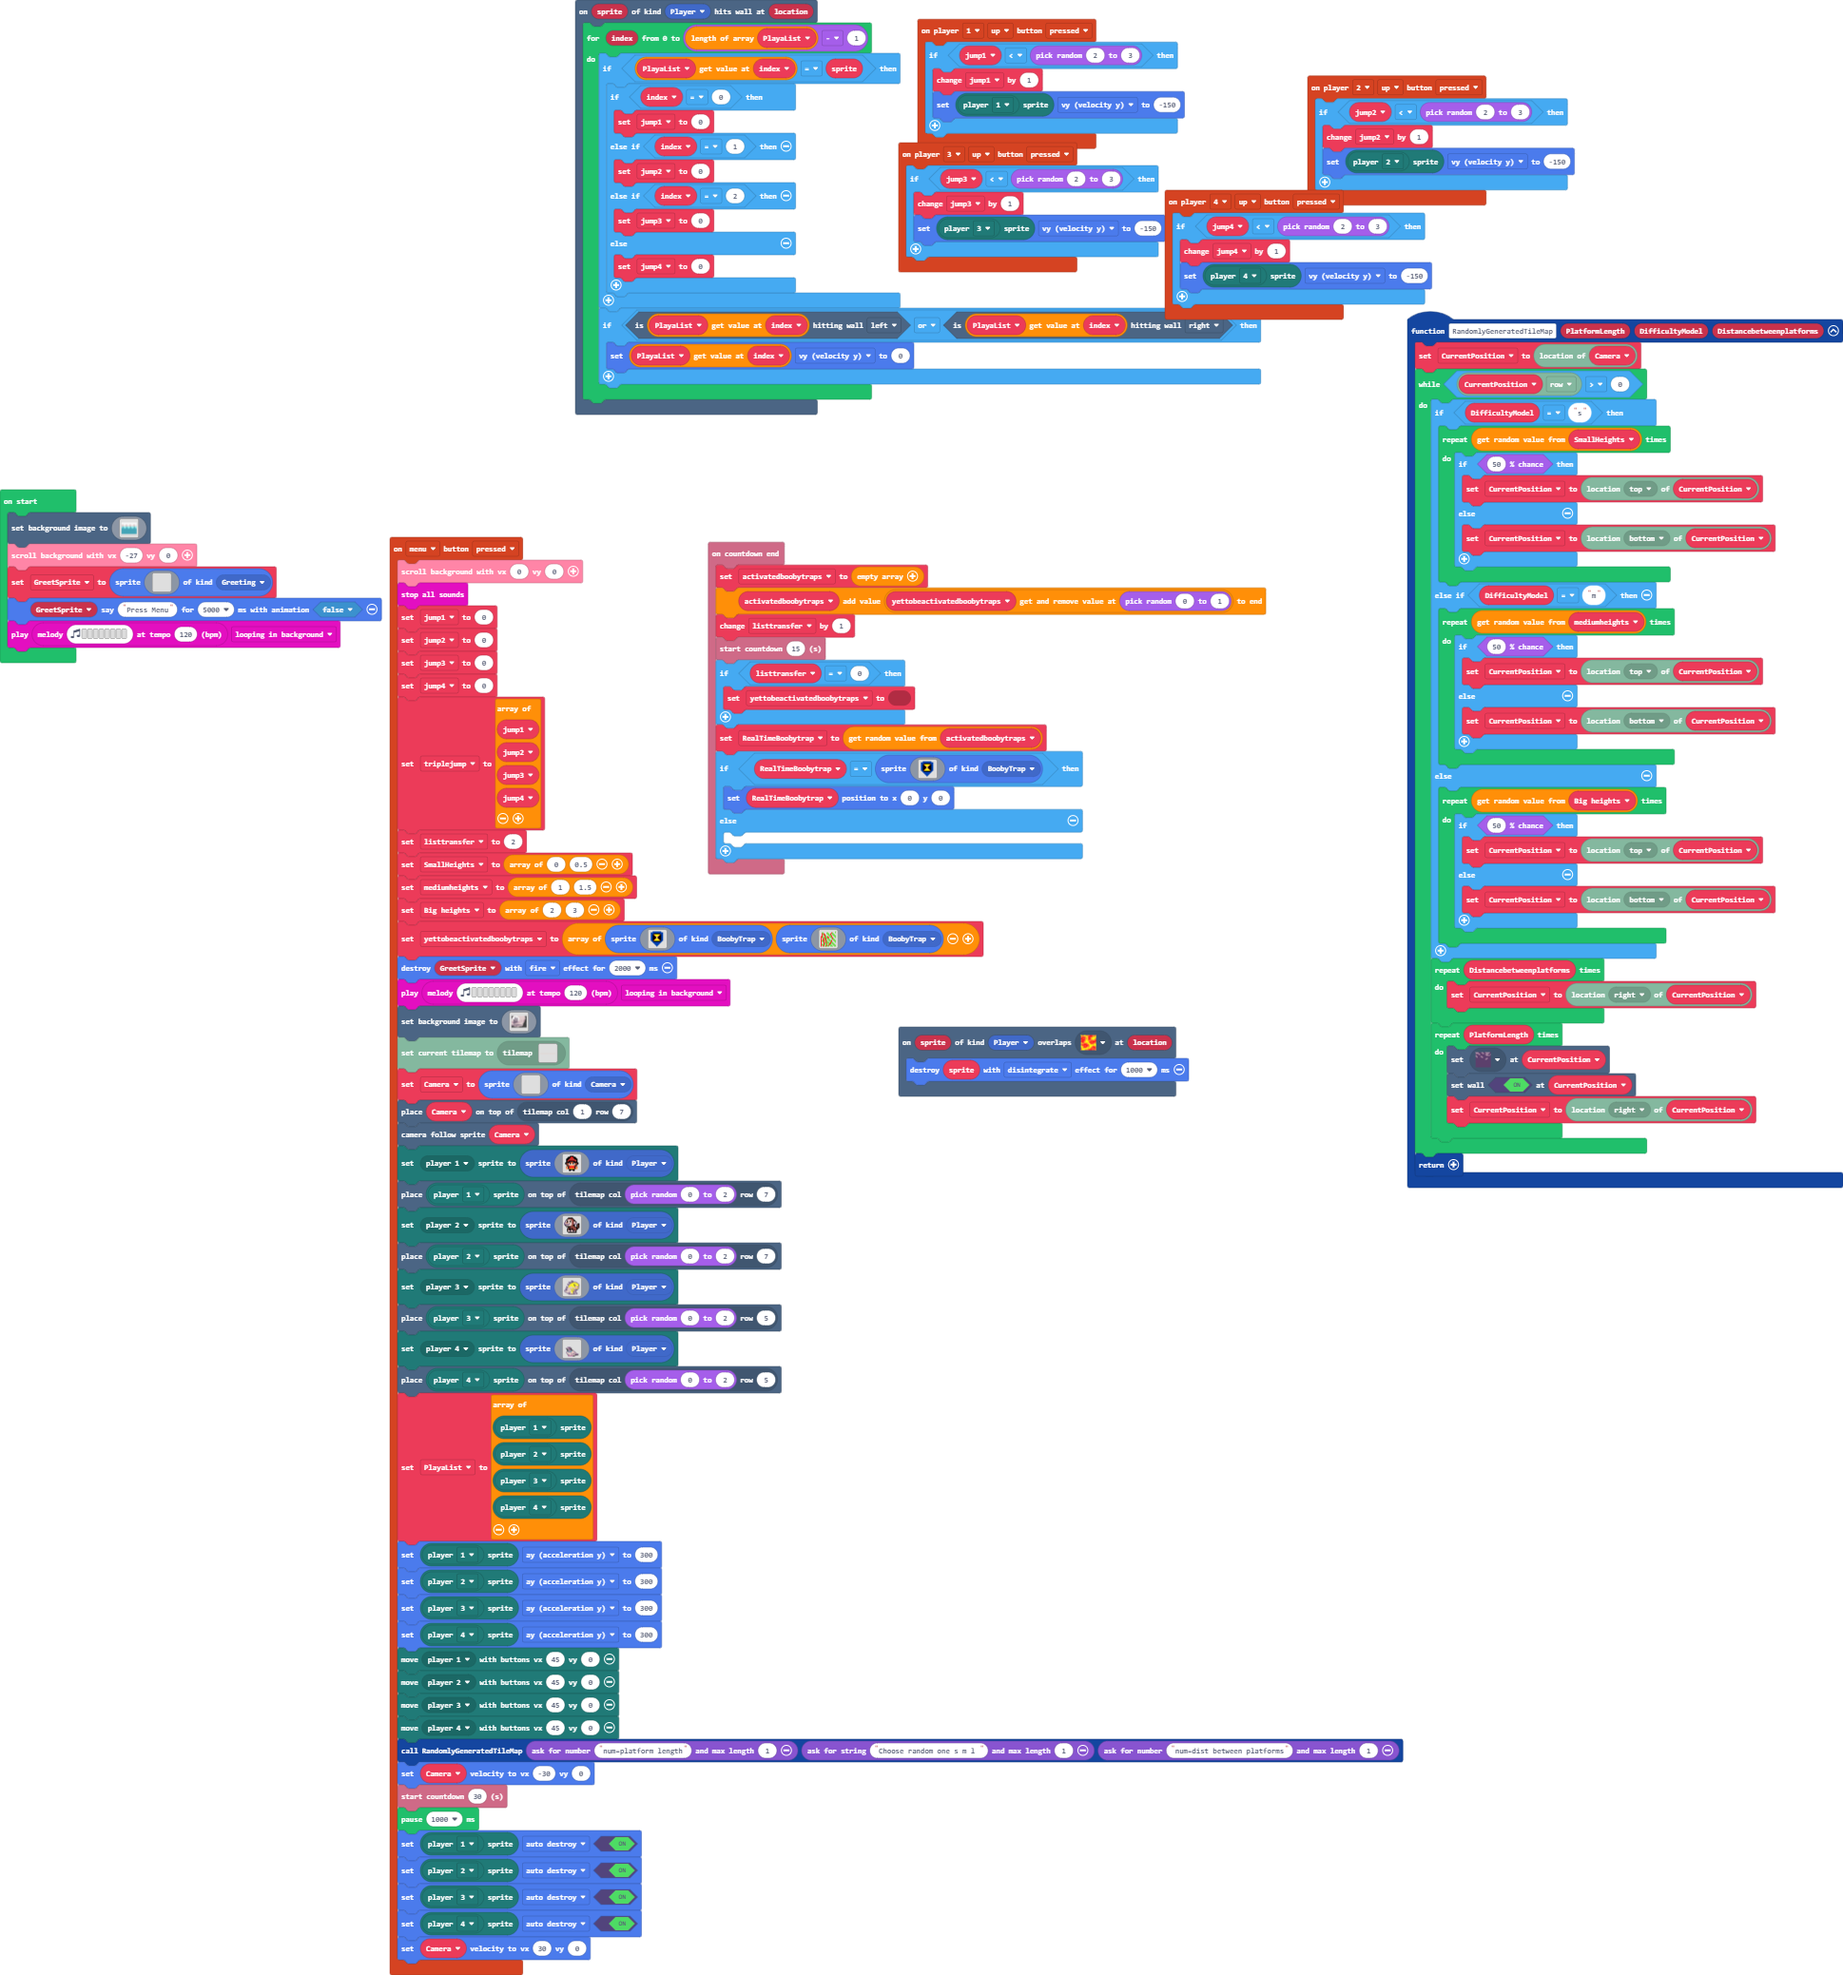
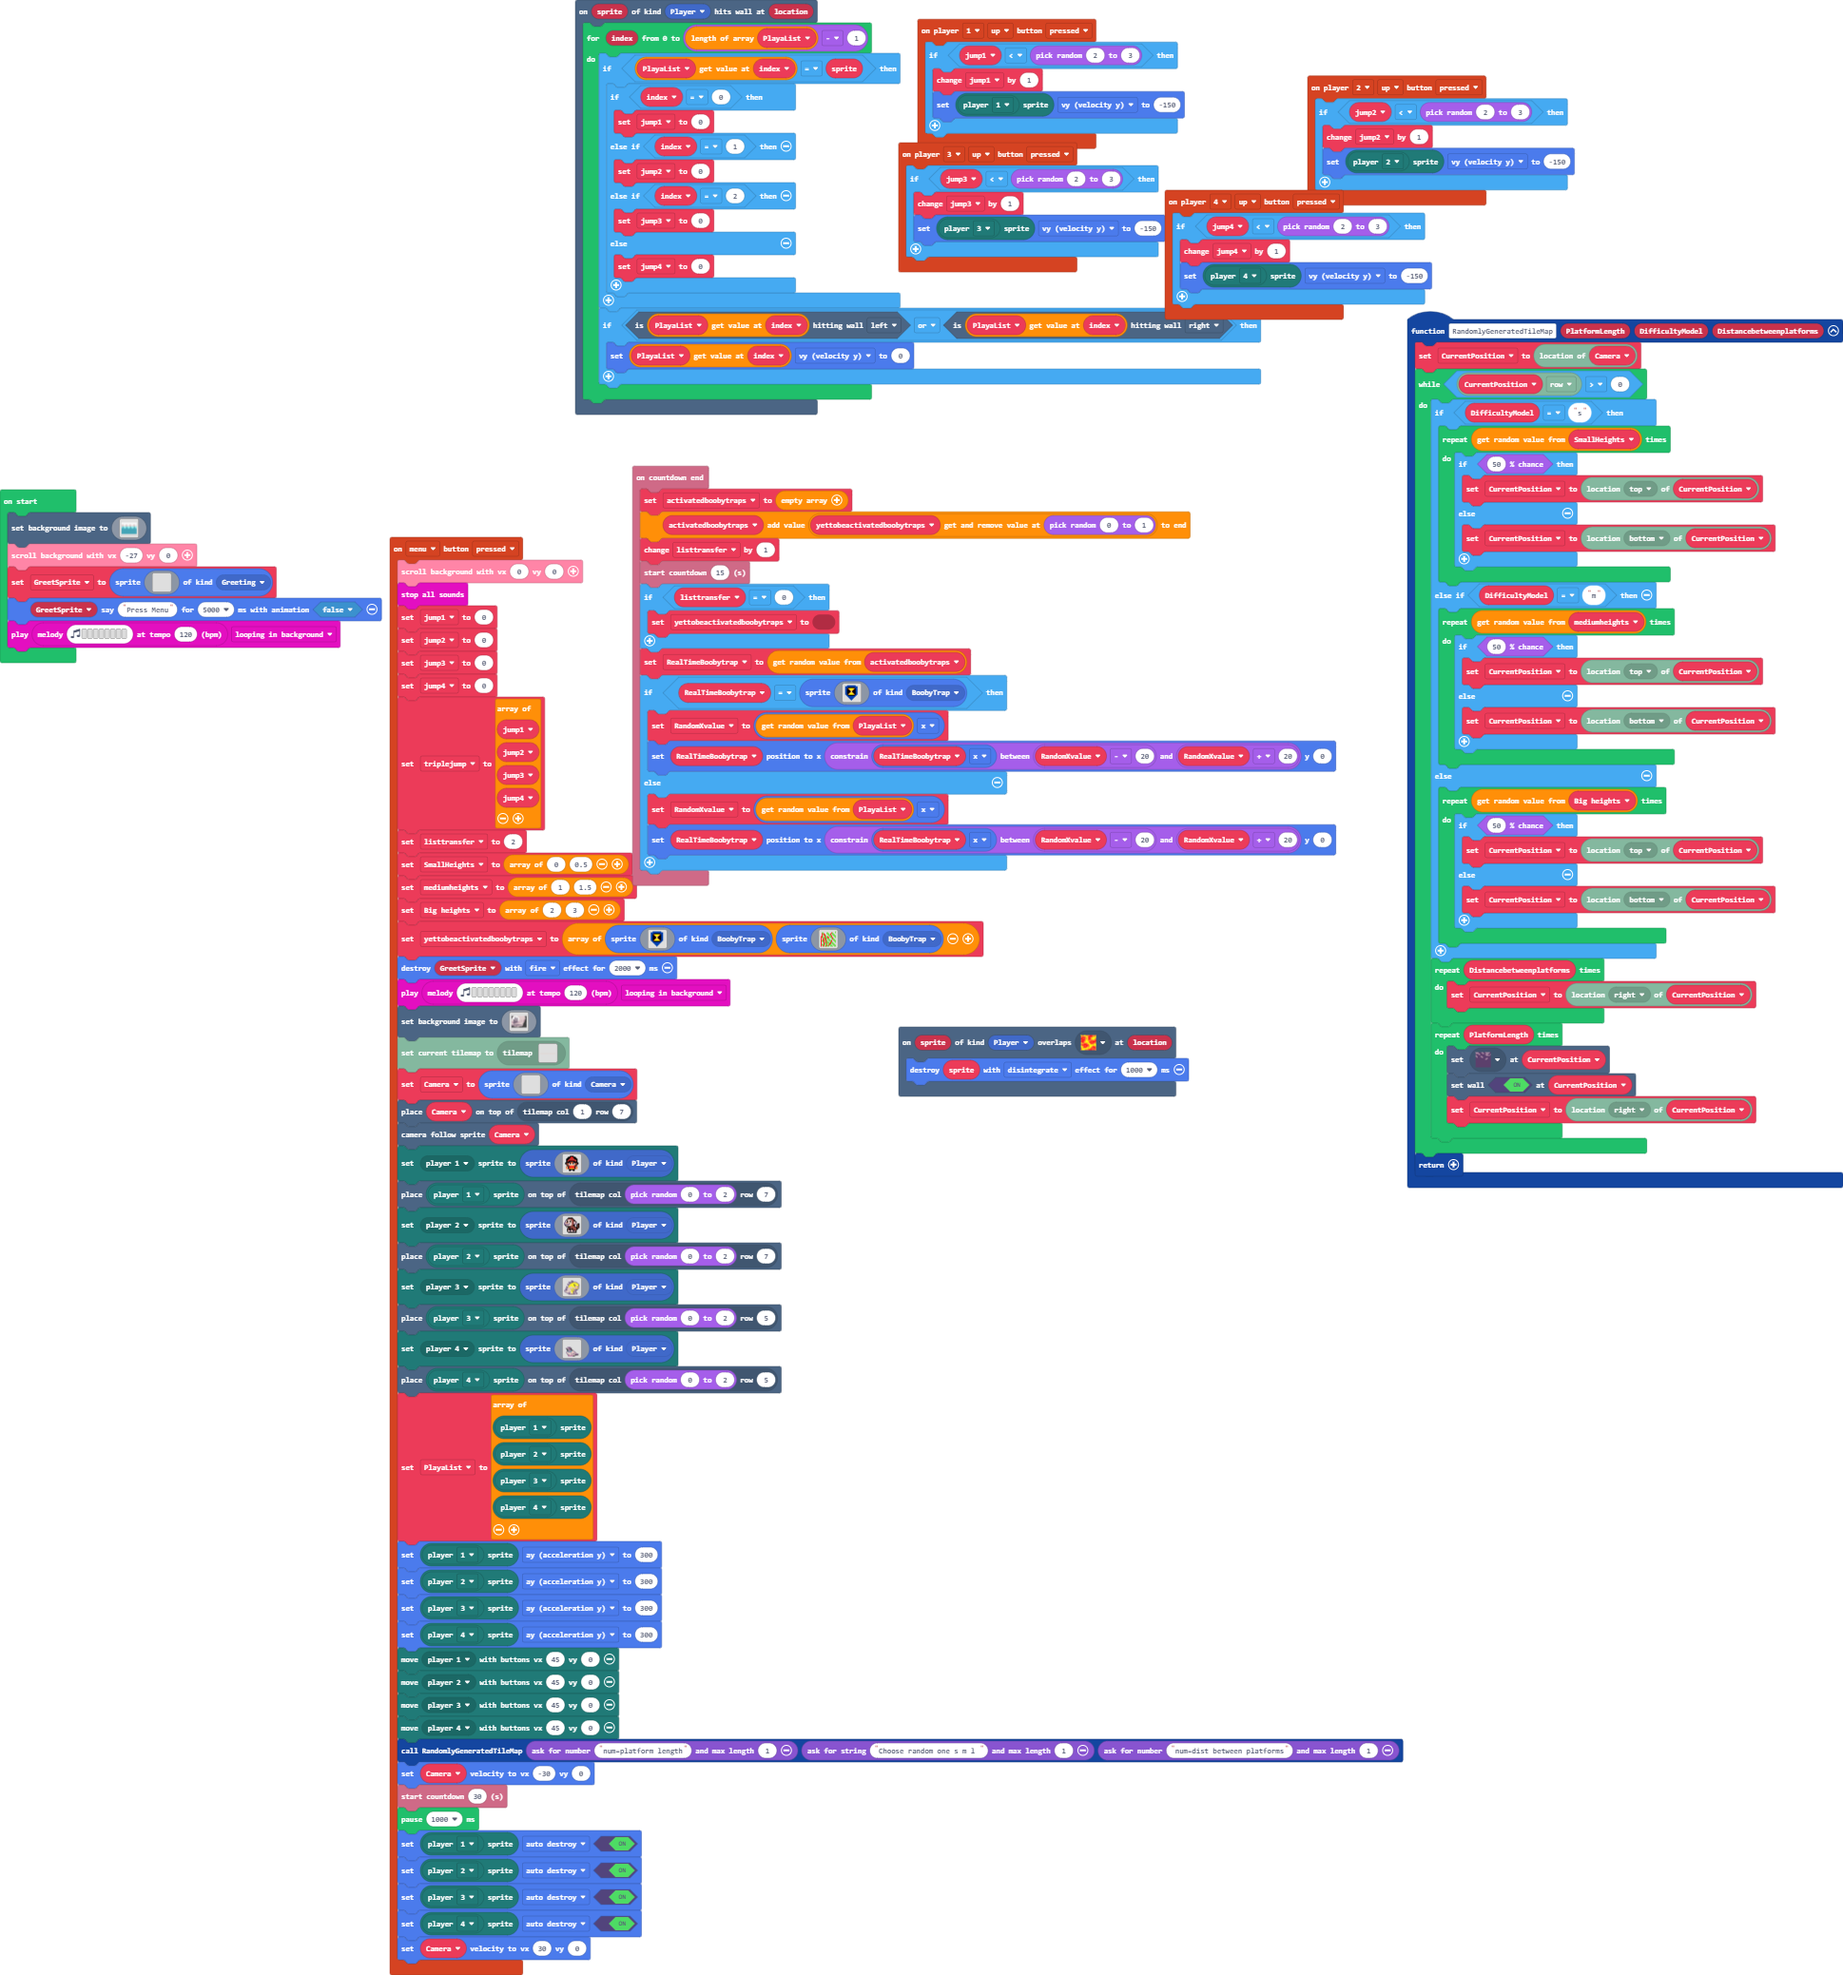
Update main.blocks, main.ts

Changed region(s): [[0.3406, 0.2157, 0.743, 0.4622]]

diff --git a/main.ts b/main.ts
@@ -43,9 +43,11 @@ info.onCountdownEnd(function () {
     }
     RealTimeBoobytrap = activatedboobytraps._pickRandom()
     if (RealTimeBoobytrap == sprites.create(assets.image`myImage`, SpriteKind.BoobyTrap)) {
-        RealTimeBoobytrap.setPosition(0, 0)
+        RandomXvalue = PlayaList._pickRandom().x
+        RealTimeBoobytrap.setPosition(Math.constrain(RealTimeBoobytrap.x, RandomXvalue - 20, RandomXvalue + 20), 0)
     } else {
-    	
+        RandomXvalue = PlayaList._pickRandom().x
+        RealTimeBoobytrap.setPosition(Math.constrain(RealTimeBoobytrap.x, RandomXvalue - 20, RandomXvalue + 20), 0)
     }
 })
 controller.player2.onButtonEvent(ControllerButton.Up, ControllerButtonEvent.Pressed, function () {
@@ -395,6 +397,7 @@ let Big_heights: number[] = []
 let mediumheights: number[] = []
 let SmallHeights: number[] = []
 let triplejump: number[] = []
+let RandomXvalue = 0
 let RealTimeBoobytrap: Sprite = null
 let listtransfer = 0
 let yettobeactivatedboobytraps: Sprite[] = []
